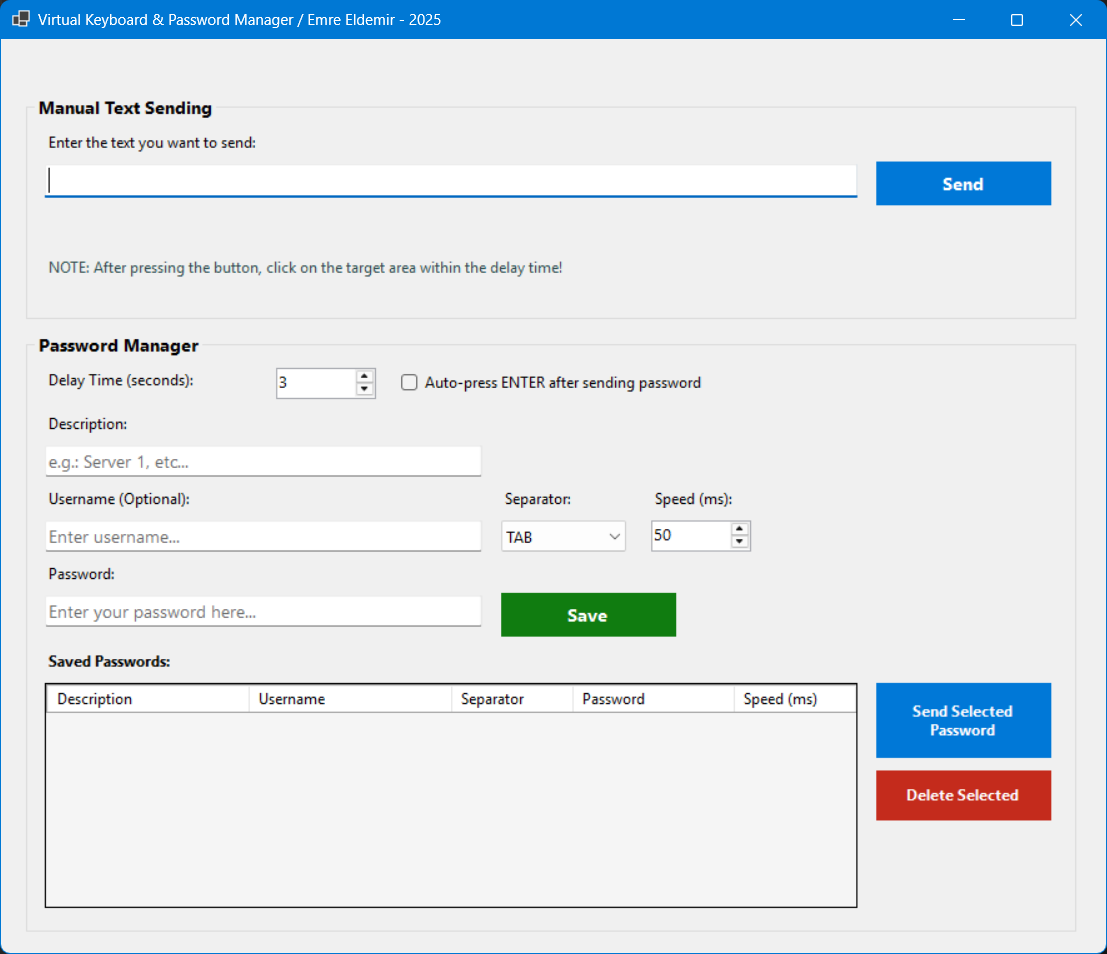
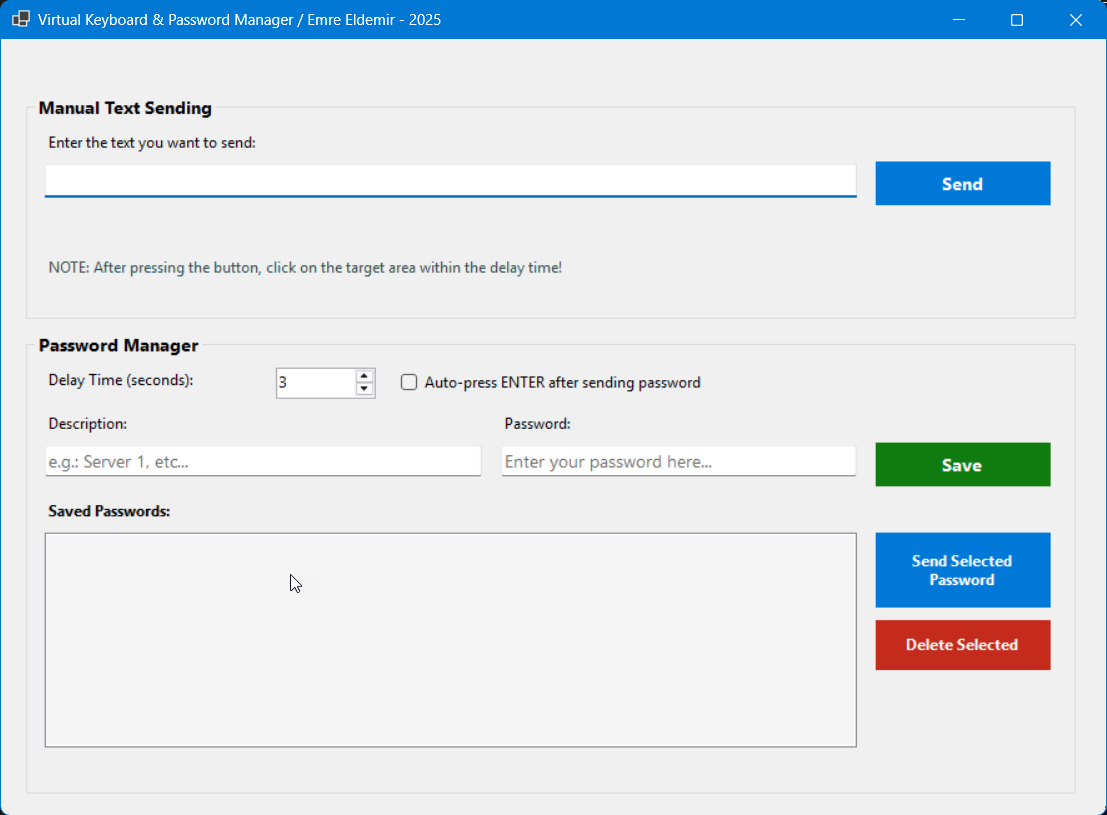
Update main interface screenshot to version 1.1

diff --git a/README.md b/README.md
@@ -146,7 +146,7 @@ Store frequently-used passwords and send them reliably to any application.
 ### Main Interface
 
 <div align="center">
-  <img src="screenshots/main-interface.png" alt="Virtual Keyboard Main Interface" width="800"/>
+  <img src="screenshots/main-interface.1.1.png" alt="Virtual Keyboard Main Interface" width="800"/>
   
   *The application features two main sections: Manual Text Sending and Password Manager with customizable delay and auto-ENTER option*
 </div>
